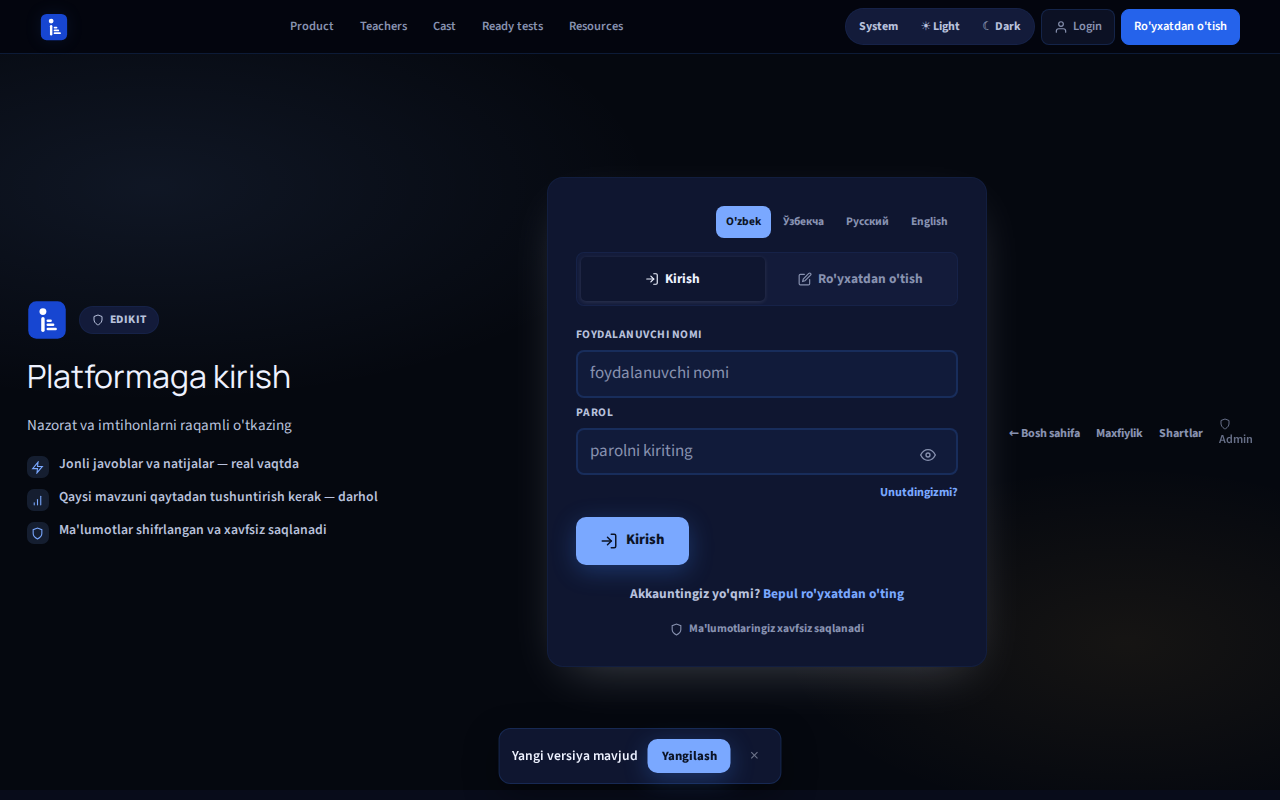
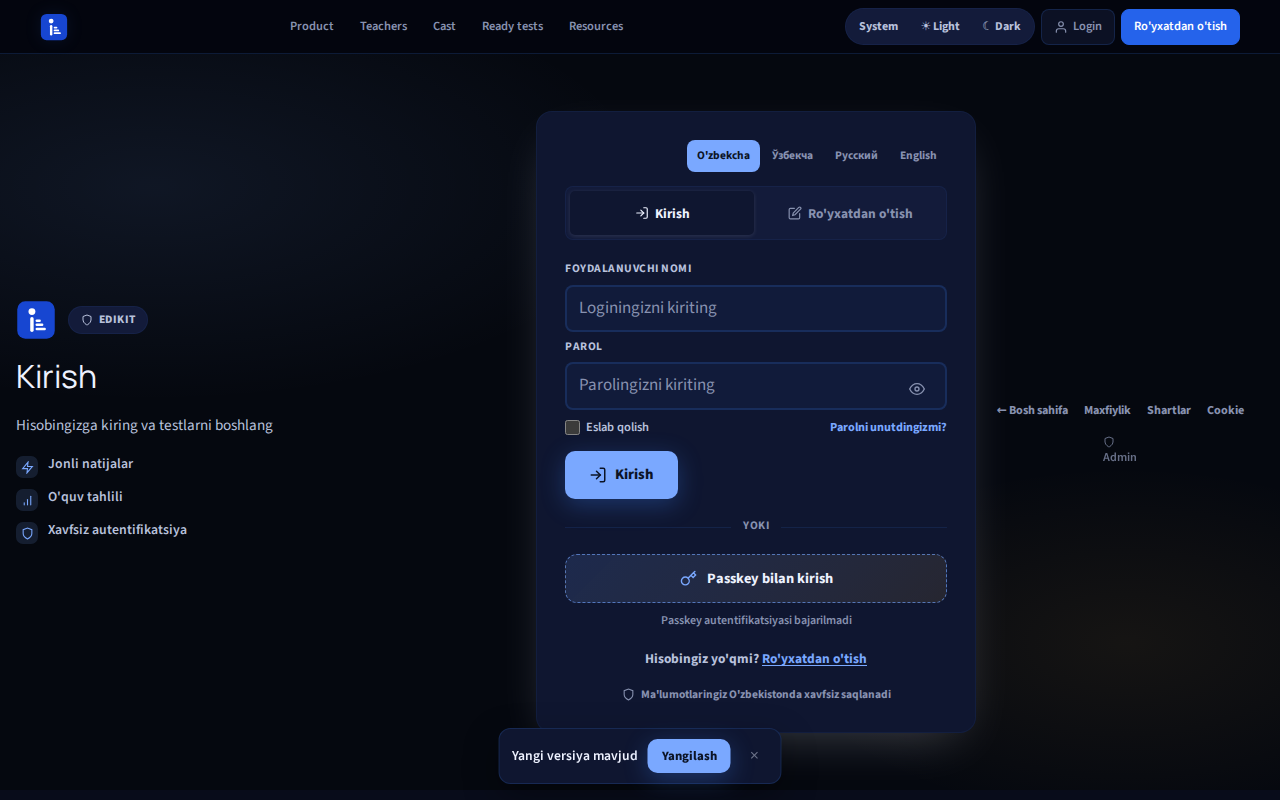
fix(a11y): visual baseline yangilandi + a11y audit consent fix
- Login snapshot baseline D-faza redesign'ga moslashtirildi (2% diff)
- A11y onboarding audit'ga consent checkbox bosish qo'shildi
- launch-gate --full PASS (22/22 hard gate)

🤖 Generated with Codebuff

diff --git a/design-audit/contrast-report.md b/design-audit/contrast-report.md
@@ -1,6 +1,6 @@
 # Edikit Contrast Report (S06.12)
 
-Generated: 2026-08-18T04:09:58.701Z
+Generated: 2026-08-18T05:06:02.946Z
 Pair check: 40 | PASS: 40 | FAIL: 0 (buffer 0.2–0.5 near threshold)
 
 | Theme | Pair | FG | BG | Ratio | Target | Status |
